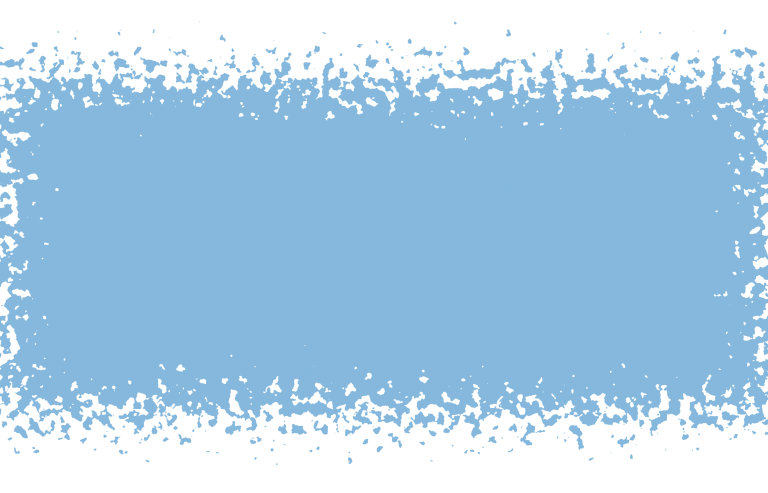
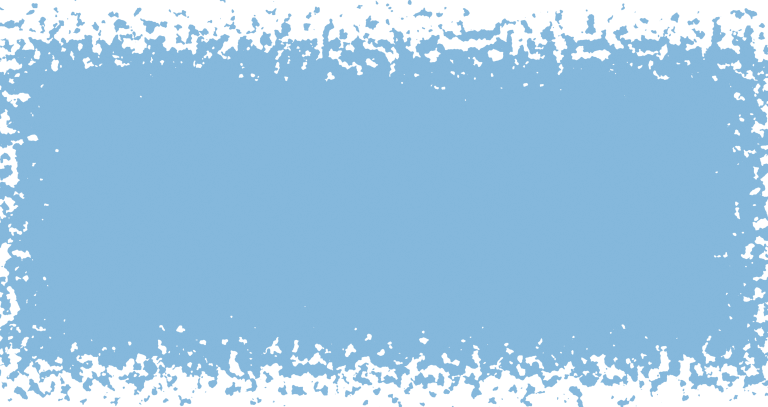
Update contact section background images and styles
Changed background images for the contact-cta section in responsive breakpoints and updated CSS to improve image display. Replaced con2.png and con3.png with new versions.

Changed region(s): [[0.0, 0.0, 1.0, 1.0], [0.2188, 0.7371, 0.25, 0.7666]]

diff --git a/assets/css/style.css b/assets/css/style.css
@@ -485,14 +485,22 @@ color: #FFFFFF;
 @media (max-width: 576px) {
   .contact-cta {
     /* padding: 70px 0; */
-    /* background: url('../images/contact/contact-person.png'); */
+    background: url('../images/contact/con3.png');
     /* background-size: 120% 120%; */
+     background-size:  100% 100%;
+  background-position: center;
+  background-repeat: no-repeat;
+ 
   }
 }
 @media (min-width: 577px) and (max-width: 991px) {
   .contact-cta {
     /* padding: 90px 0; */
-    /* background: url('../images/contact/contact-person.png'); */
+    background: url('../images/contact/con2.png');
+     background-size:  100% 100%;
+  background-position: center;
+  background-repeat: no-repeat;
+ 
   }
 }
 
